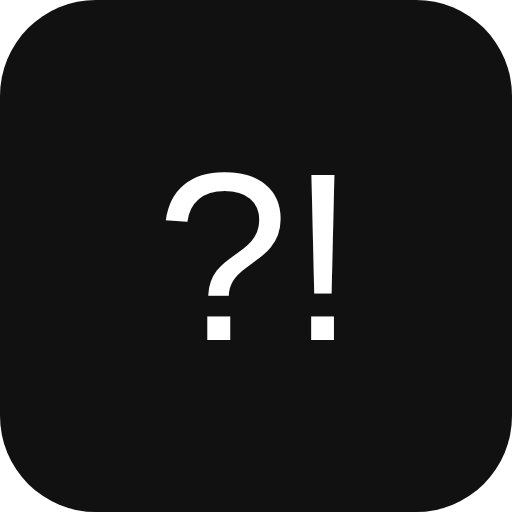
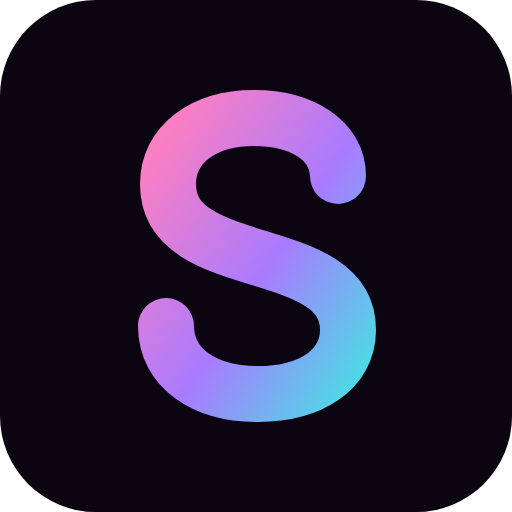
feat(web): add SZOT tokens, fonts and app identity

Changed region(s): [[0.25, 0.1562, 0.75, 0.8438]]

diff --git a/docs/design/tokens/tokens.css b/docs/design/tokens/tokens.css
@@ -1,0 +1,114 @@
+/*
+ * SZOT design tokens: the single source of colours, fonts, radii and glows for apps/web.
+ * Imported from apps/web/src/index.css. Source: docs/design/screens/plan-szot.dc.html.
+ * The default Tailwind palette is switched off, so a colour outside this file does not compile.
+ *
+ * Gradients that carry white text sit at lightness 0.58 instead of the design's 0.6-0.74, which
+ * is what WCAG AA asks for at 4.5:1. See docs/plans/007-design-system.md.
+ */
+@theme {
+  --color-*: initial;
+
+  /* Surfaces */
+  --color-bg: #150b22;
+  --color-bg-game: #1c0c20;
+  --color-bg-deep: #0a0510;
+  --color-panel: #1c0f2b;
+  --color-scrim: rgb(10 5 16 / 0.8);
+  --color-glass: rgb(255 255 255 / 0.05);
+  --color-glass-strong: rgb(255 255 255 / 0.08);
+  --color-edition: rgb(10 5 16 / 0.28);
+
+  /* Lines */
+  --color-line: rgb(255 255 255 / 0.08);
+  --color-line-strong: rgb(255 255 255 / 0.14);
+  --color-line-dashed: rgb(255 255 255 / 0.2);
+
+  /* Text */
+  --color-ink: #fff;
+  --color-ink-soft: rgb(255 255 255 / 0.8);
+  --color-ink-muted: rgb(255 255 255 / 0.6);
+
+  /* Accents */
+  --color-pink: oklch(0.78 0.18 350);
+  --color-violet: oklch(0.66 0.2 300);
+  --color-cyan: oklch(0.82 0.13 200);
+  --color-orange: oklch(0.75 0.16 30);
+  --color-success: oklch(0.78 0.16 160);
+  --color-danger: oklch(0.75 0.17 25);
+  --color-selected: oklch(0.72 0.18 350);
+  --color-resume-line: oklch(0.6 0.18 320 / 0.4);
+  --color-resume-icon: oklch(0.68 0.2 330);
+
+  /* Text on accents */
+  --color-on-pink: #1a0a14;
+  --color-on-cyan: #08202a;
+  --color-on-violet: #1a0a14;
+  --color-on-orange: #2a0d08;
+  --color-on-success: #04201a;
+  --color-on-gold: #2a1c02;
+
+  /* Gradients */
+  --background-image-screen: linear-gradient(180deg, var(--color-bg), var(--color-bg-deep) 70%);
+  --background-image-screen-game: linear-gradient(180deg, var(--color-bg-game), var(--color-bg-deep));
+  --background-image-dock: linear-gradient(180deg, transparent, var(--color-bg-deep) 18px);
+  --background-image-wordmark: linear-gradient(120deg, oklch(0.78 0.18 350), oklch(0.7 0.18 300), oklch(0.82 0.13 200));
+  --background-image-cta: linear-gradient(135deg, oklch(0.58 0.19 350), oklch(0.58 0.2 300));
+  --background-image-done: linear-gradient(135deg, oklch(0.78 0.16 160), oklch(0.7 0.16 175));
+  --background-image-gold: linear-gradient(135deg, oklch(0.85 0.14 90), oklch(0.78 0.16 60));
+  --background-image-tile-featured: linear-gradient(135deg, oklch(0.58 0.19 350), oklch(0.58 0.2 320));
+  --background-image-card-truth: linear-gradient(160deg, oklch(0.58 0.2 320), oklch(0.58 0.21 300));
+  --background-image-card-dare: linear-gradient(160deg, oklch(0.58 0.19 350), oklch(0.58 0.2 330));
+  --background-image-resume: linear-gradient(135deg, oklch(0.4 0.14 320 / 0.55), oklch(0.3 0.1 300 / 0.35));
+  --background-image-picked: linear-gradient(135deg, oklch(0.72 0.19 350 / 0.25), oklch(0.62 0.2 300 / 0.25));
+  --background-image-blob-violet: radial-gradient(circle, oklch(0.62 0.2 300 / 0.35), transparent 70%);
+  --background-image-blob-pink: radial-gradient(circle, oklch(0.7 0.19 350 / 0.35), transparent 70%);
+
+  /* Glows */
+  --shadow-glow-cta: 0 0 28px oklch(0.64 0.2 300 / 0.55);
+  --shadow-glow-truth: 0 0 40px oklch(0.6 0.2 310 / 0.4);
+  --shadow-glow-dare: 0 0 40px oklch(0.62 0.2 350 / 0.4);
+  --shadow-glow-selected: 0 0 24px oklch(0.66 0.2 320 / 0.25);
+
+  /* Radii */
+  --radius-badge: 8px;
+  --radius-icon: 12px;
+  --radius-field: 14px;
+  --radius-button: 16px;
+  --radius-tile-sm: 18px;
+  --radius-tile: 20px;
+  --radius-card: 24px;
+
+  /* Typography */
+  --font-sans: 'DM Sans Variable', system-ui, sans-serif;
+  --font-display: 'Space Grotesk Variable', system-ui, sans-serif;
+  --tracking-display: -0.02em;
+  --tracking-label: 0.1em;
+  --text-wordmark: 48px;
+  --text-wordmark--line-height: 0.9;
+  --text-display: 34px;
+  --text-display--line-height: 1.05;
+  --text-title: 30px;
+  --text-title--line-height: 1.1;
+  --text-card: 25px;
+  --text-card--line-height: 1.15;
+  --text-tile: 21px;
+  --text-tile--line-height: 1.05;
+  --text-label: 13px;
+  --text-label--line-height: 1.3;
+  --text-micro: 11px;
+  --text-micro--line-height: 1.3;
+
+  /* Motion: always behind `motion-safe:` */
+  --animate-scfloat: scfloat 5s ease-in-out infinite;
+
+  @keyframes scfloat {
+    0%,
+    100% {
+      transform: translateY(0);
+    }
+    50% {
+      transform: translateY(-6px);
+    }
+  }
+}

diff --git a/apps/web/src/i18n/pl.ts b/apps/web/src/i18n/pl.ts
@@ -2,13 +2,16 @@ import { plural } from './plural.js';
 
 export const pl = {
   app: {
-    title: 'Prawda czy wyzwanie',
-    description: 'Gry imprezowe na telefon',
+    title: 'SZOT',
+    tagline: 'jedna apka, cała impreza',
   },
   common: {
     loading: 'Ładowanie…',
     retry: 'Spróbuj ponownie',
     back: 'Wróć',
+    backSymbol: '‹',
+    forwardSymbol: '›',
+    checkSymbol: '✓',
   },
   ageGate: {
     title: 'Masz ukończone 18 lat?',
@@ -18,22 +21,31 @@ export const pl = {
     declined: 'Aplikacja jest tylko dla pełnoletnich',
   },
   catalog: {
-    title: 'Wybierz grę',
+    title: 'W co gramy?',
+    allGames: 'Wszystkie gry',
     empty: 'Nie ma jeszcze żadnych gier.',
-    locked: 'Zablokowana',
-    resume: 'Kontynuuj grę',
+    locked: '★ PRO',
+    lockedHint: 'Edycja zablokowana',
+    resume: 'Wróć do gry',
+    resumeGame: 'Prawda czy wyzwanie',
+    featuredMark: '?!',
     install: 'Dodaj do ekranu początkowego',
   },
   setup: {
-    title: 'Gracze',
+    title: 'Kto dziś gra?',
+    subtitle: 'Dodaj wszystkich przy stole',
     playerName: 'Imię gracza',
     addPlayer: 'Dodaj gracza',
     playersList: 'Lista graczy',
     removePlayer: (name: string) => `Usuń gracza ${name}`,
     penaltyMode: 'Tryb kar',
     penaltyNone: 'Bez kar',
+    penaltyNoneHint: 'Niewykonana karta po prostu przechodzi dalej',
+    penaltyNoneIcon: '😇',
     penaltyShots: 'Shoty',
-    start: 'Zacznij grę',
+    penaltyShotsHint: 'Niewykonana karta pokazuje liczbę shotów',
+    penaltyShotsIcon: '🥃',
+    start: 'Zacznij grę →',
     replaceConfirm: {
       title: 'Zacząć nową grę?',
       description: 'Trwająca gra zostanie zakończona.',
@@ -41,15 +53,21 @@ export const pl = {
       cancel: 'Nie zaczynaj',
     },
     removeSymbol: '×',
+    addSymbol: '+',
   },
   game: {
     title: 'Gra',
     truth: 'Prawda',
     dare: 'Wyzwanie',
-    done: 'Wykonane',
+    truthMark: '?',
+    dareMark: '!',
+    turn: 'Kolej:',
+    done: 'Zrobione ✓',
     notDone: 'Nie wykonane',
-    next: 'Dalej',
-    end: 'Zakończ grę',
+    notDoneShots: 'Piję 🍺',
+    penaltyLabel: 'Kara',
+    next: 'Dalej →',
+    end: 'Wyjdź',
     endConfirm: {
       title: 'Zakończyć grę?',
       description: 'Tej gry nie będzie można już kontynuować.',

diff --git a/apps/web/src/i18n/pl.test.ts b/apps/web/src/i18n/pl.test.ts
@@ -1,0 +1,26 @@
+import { describe, expect, it } from 'vitest';
+import { pl } from './pl.js';
+
+describe('pl', () => {
+  it('names the app SZOT and carries the tagline', () => {
+    expect(pl.app.title).toBe('SZOT');
+    expect(pl.app.tagline).toBe('jedna apka, cała impreza');
+  });
+
+  it('asks what to play without pushing shots', () => {
+    expect(pl.catalog.title).toBe('W co gramy?');
+    expect(JSON.stringify(pl)).not.toContain('Gotowi na szoty');
+  });
+
+  it('labels the outcome buttons as agreed for each penalty mode', () => {
+    expect(pl.game.done).toBe('Zrobione ✓');
+    expect(pl.game.notDoneShots).toBe('Piję 🍺');
+    expect(pl.game.notDone).toBe('Nie wykonane');
+  });
+
+  it('never mentions drinking in what the mode without penalties shows', () => {
+    const noPenaltyCopy = [pl.game.notDone, pl.setup.penaltyNone, pl.setup.penaltyNoneHint];
+
+    expect(noPenaltyCopy.join(' ')).not.toMatch(/pij|pić|shot|szot|🍺/iu);
+  });
+});

diff --git a/apps/web/vite.config.ts b/apps/web/vite.config.ts
@@ -22,16 +22,16 @@ export default defineConfig({
       srcDir: 'src/sw',
       filename: 'sw.ts',
       registerType: 'autoUpdate',
-      injectManifest: { globPatterns: ['**/*.{js,css,html,svg,png}'], rollupFormat: 'iife' },
+      injectManifest: { globPatterns: ['**/*.{js,css,html,svg,png,woff2}'], rollupFormat: 'iife' },
       manifest: {
         name: pl.app.title,
         short_name: pl.app.title,
-        description: pl.app.description,
+        description: pl.app.tagline,
         lang: 'pl',
         display: 'standalone',
         start_url: '/',
-        background_color: '#0a0a0a',
-        theme_color: '#0a0a0a',
+        background_color: '#0a0510',
+        theme_color: '#0a0510',
         icons: [
           { src: '/icon-192.png', sizes: '192x192', type: 'image/png', purpose: 'any' },
           { src: '/icon-512.png', sizes: '512x512', type: 'image/png', purpose: 'any' },

diff --git a/apps/web/index.html b/apps/web/index.html
@@ -3,13 +3,13 @@
   <head>
     <meta charset="UTF-8" />
     <meta name="viewport" content="width=device-width, initial-scale=1.0, viewport-fit=cover" />
-    <meta name="theme-color" content="#0a0a0a" />
+    <meta name="theme-color" content="#0a0510" />
     <link rel="icon" href="/icon.svg" type="image/svg+xml" />
     <link rel="apple-touch-icon" href="/apple-touch-icon.png" />
     <meta name="mobile-web-app-capable" content="yes" />
-    <title>Prawda czy wyzwanie</title>
+    <title>SZOT</title>
   </head>
-  <body class="bg-neutral-950 text-neutral-50">
+  <body>
     <div id="root"></div>
     <script type="module" src="/src/main.tsx"></script>
   </body>

diff --git a/apps/web/src/index.css b/apps/web/src/index.css
@@ -1,1 +1,15 @@
 @import 'tailwindcss';
+@import '../../../docs/design/tokens/tokens.css';
+
+@layer base {
+  html {
+    background-color: var(--color-bg-deep);
+    color: var(--color-ink);
+    -webkit-tap-highlight-color: transparent;
+  }
+
+  :focus-visible {
+    outline: 2px solid var(--color-cyan);
+    outline-offset: 2px;
+  }
+}

diff --git a/apps/web/src/main.tsx b/apps/web/src/main.tsx
@@ -1,3 +1,5 @@
+import '@fontsource-variable/dm-sans/wght.css';
+import '@fontsource-variable/space-grotesk/wght.css';
 import { createCryptoRandom } from '@tod/game-engine';
 import { StrictMode } from 'react';
 import { createRoot } from 'react-dom/client';
